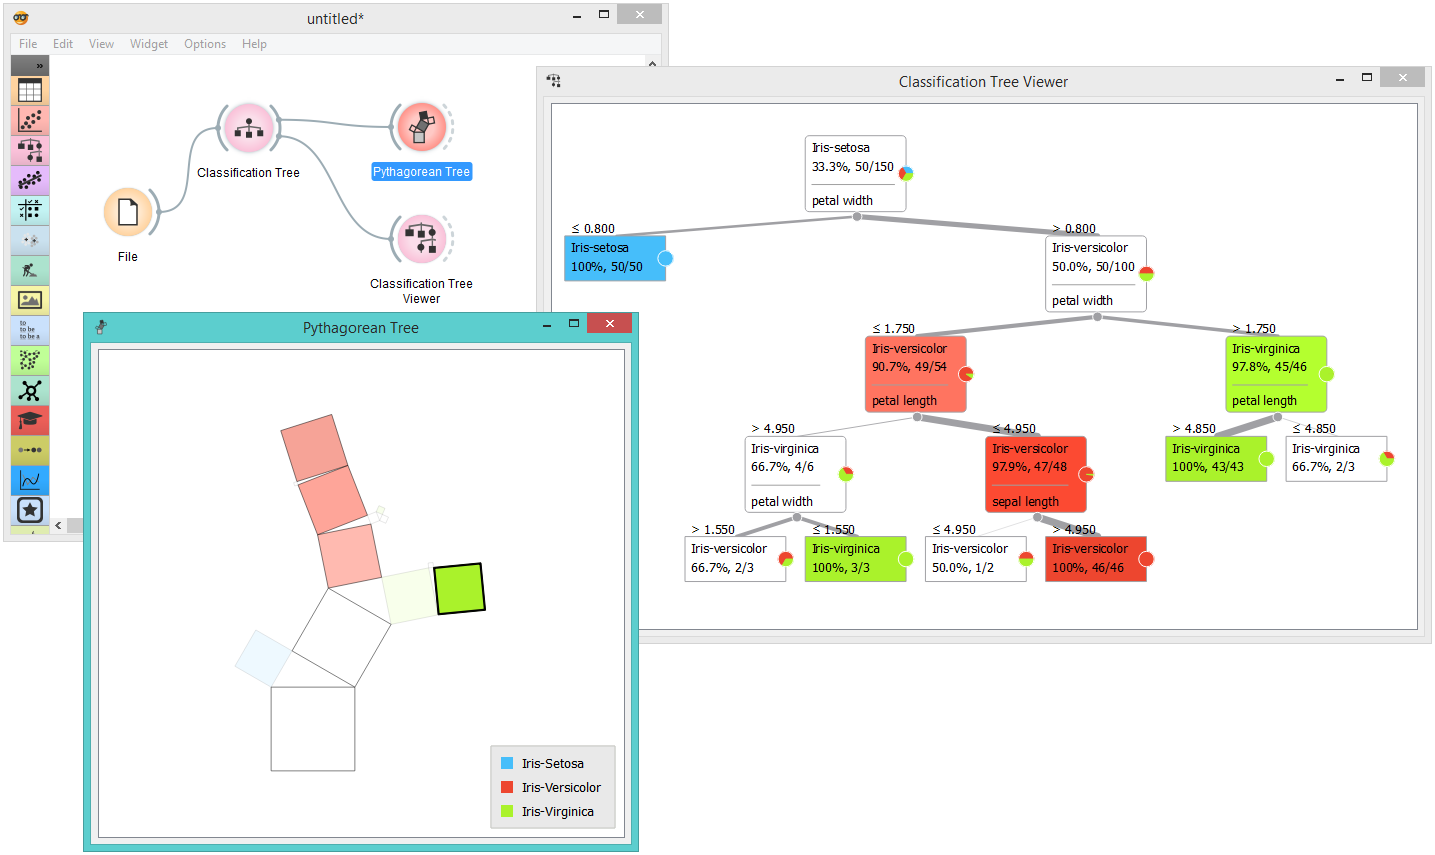
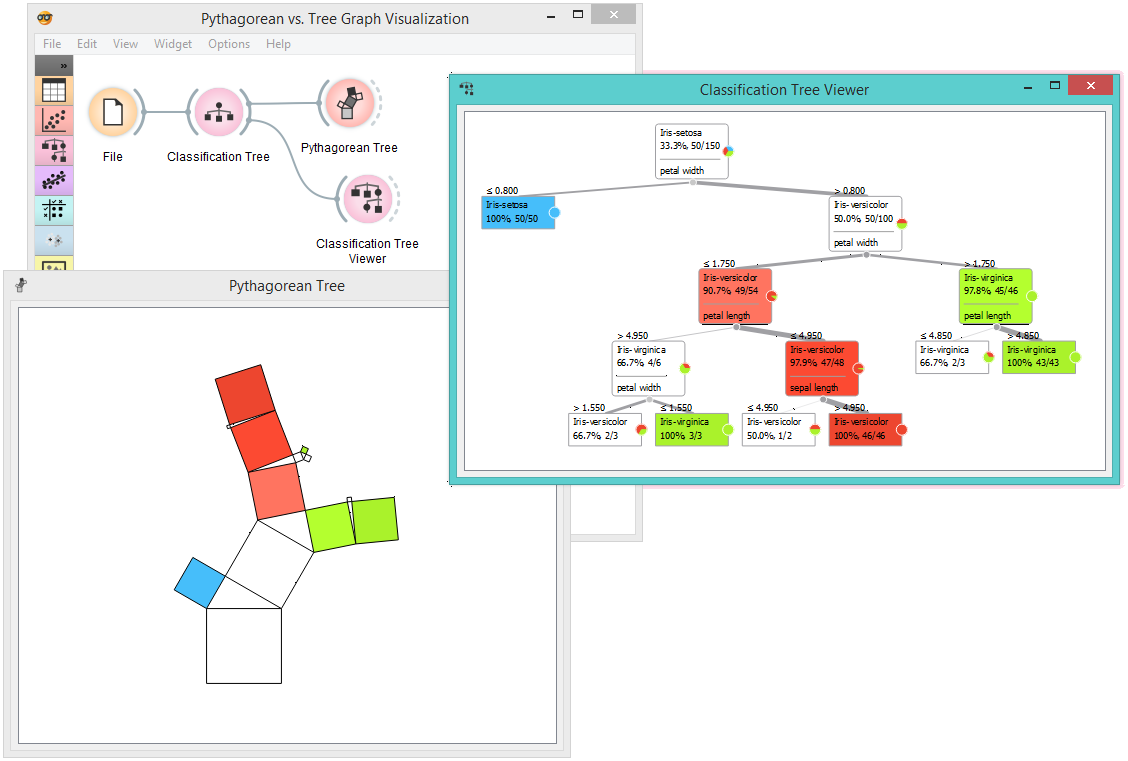
[DOC] Pythagorean Tree: rst fixes and some minor changes (#1570)
* Changed rst tags, minor edits, added example

* Changed title of the main window.

* Two new screenshots for the second example.

* Minor typos are fixed (thanks Ajda).

diff --git a/source/widgets/visualize/pythagoreantree.rst b/source/widgets/visualize/pythagoreantree.rst
@@ -3,7 +3,7 @@ Pythagorean Tree
 
 .. figure:: icons/pythagorean-tree.png
 
-Pythagorean tree for visualising classification trees.
+Pythagorean tree visualisation for classification or regression trees.
 
 Signals
 -------
@@ -12,36 +12,39 @@ Signals
 
 -  **Tree**
 
-A classification / regression tree model.
+A classification or regression tree model.
 
-**Selected Data**:
+- **Selected Data**
 
--  A subset of instances that the user has manually selected from the
-pythagorean tree.
+A subset of instances that the user has manually selected from the Pythagorean tree.
 
 Description
 -----------
 
-**Pythagorean Trees** are fractals that can be used to depict binary hierarchies as presented in an article by `Beck F. et al<http://publications.fbeck.com/ivapp14-pythagoras.pdf>`__. In our case, they're used for concisely visualizing tree models, such as :doc:`Classification Tree<../classify/classificationtree>` or :doc:`Regression Tree<../regression/regressiontree>`. 
+**Pythagorean Trees** are plane fractals that can be used to depict general tree hierarchies as presented in an article by `Fabian Beck and co-authors
+<http://publications.fbeck.com/ivapp14-pythagoras.pdf>`_. In our case, they are used for visualizing and exploring tree models, such as 
+:doc:`Classification Tree<../classify/classificationtree>`.
 
 .. figure:: images/Pythagorean-Tree1-stamped.png
 
 1. Information on the input tree model.
 
-2. Parameters for display settings:
+2. Visualization parameters:
 
-    - _Depth_: set the depth to which the trees are grown.
-    - _Target class_: set the target class for coloring the trees. Nodes where the selected class if present will be colored by the class color. If _None_ is selected, the tree will be white.
-    - _Size_: set the size of the nodes. _Normal_ will keep nodes the size of the subset in the node. _Square root_ and _Logarithmic_ are the respective transformations of the node size.
-    - _Log scale factor_ is only enabled when _logarithmic_ transformation is selected. You can set the log factor between 1 and 10.
+    - *Depth*: set the depth of displayed trees.
+    - *Target class* (for classification trees): the intensity of the color for nodes of the tree will correspond to the probability of the target class. If *None* is selected, the color of the node will denote the most probable class.
+    - *Node color* (for regression trees): node colors can correspond to mean or standard deviation of class value of the training data instances in the node.
+    - *Size*: define a method to compute the size of the square representing the node. *Normal* will keep node sizes correspond to the size of training data subset in the node. *Square root* and *Logarithmic* are the respective transformations of the node size.
+    - *Log scale factor* is only enabled when *logarithmic* transformation is selected. You can set the log factor between 1 and 10.
 
 3. Plot properties:
 
-    - _Enable tooltips_: information on the node as displayed upon hovering.
-    - _Show legend_: shows color legend for the plot.
+    - *Enable tooltips*: display node information upon hovering.
+    - *Show legend*: shows color legend for the plot.
 
-4. _Save Image_: save the visualization to your computer as a *.svg* or *.png* file. 
-   _Report_: produce a report.
+4. Reporting:
+    - *Save Image*: save the visualization to a SVG or PNG file. 
+    - *Report*: add visualization to the report.
 
 Pythagorean Tree can visualize both classification and regression trees. Below is an example for regression tree. The only difference between the two is that regression tree doesn't enable coloring by class, but can color by class mean or standard deviation.
 
@@ -51,11 +54,25 @@ Pythagorean Tree can visualize both classification and regression trees. Below i
 Example
 -------
 
-In this example we demonstrate the difference between :doc:`Classification Tree Viewer<../classify/classificationtreeviewer>` and **Pythagorean Tree**. They both visualize :doc:`Classification Tree<../classify/classificationtree>` algorithm, but Pythagorean tree is much more concise, even for a small data set such as _Iris.tab_.
+The workflow from the screenshot below demonstrates the difference between 
+:doc:`Classification Tree Viewer<../classify/classificationtreeviewer>` and Pythagorean Tree. They can both visualize :doc:`Classification Tree<../classify/classificationtree>`, but Pythagorean visualization takes less space and is more compact, even for a small 
+`Iris flower <https://en.wikipedia.org/wiki/Iris_flower_data_set>`_
+data set. For both visualization widgets, we have hidden the control area on the left by clicking on the splitter between control and visualization area.
 
 .. figure:: images/Pythagorean-Tree-comparison.png
+
+Pythagorean Tree is interactive: click on any of the nodes (squares) to select training data instances that were associated with that node. The following workflow explores these feature. 
+
+.. figure:: images/Pythagorean-Tree-scatterplot-workflow.png
+    :scale: 80
+    :align: center 
+
+The selected data instances are shown as a subset in the :doc:`Scatter Plot <../visualize/scatterplot>`, sent to the :doc:`Data Table <../data/datatable>` and examined in the :doc:`Box Plot <../visualize/boxplot>`. We have used brown-selected data set in this example. The tree and scatter plot are shown below; the selected node in the tree has a black outline.
+
+.. figure:: images/Pythagorean-Tree-scatterplot.png
 
 References
 ----------
 
-Beck, F., Burch, M., Munz, T., Di Silvestro, L. and Weiskopf, D. (2014). Generalized Pythagoras Trees for Visualizing Hierarchies. In IVAPP '14 Proceedings of the 5th International Conference on Information Visualization Theory and Applications, 17-28.
+Beck, F., Burch, M., Munz, T., Di Silvestro, L. and Weiskopf, D. (2014). `Generalized Pythagoras Trees for Visualizing Hierarchies
+<http://publications.fbeck.com/ivapp14-pythagoras.pdf>`_. In IVAPP '14 Proceedings of the 5th International Conference on Information Visualization Theory and Applications, 17-28.
